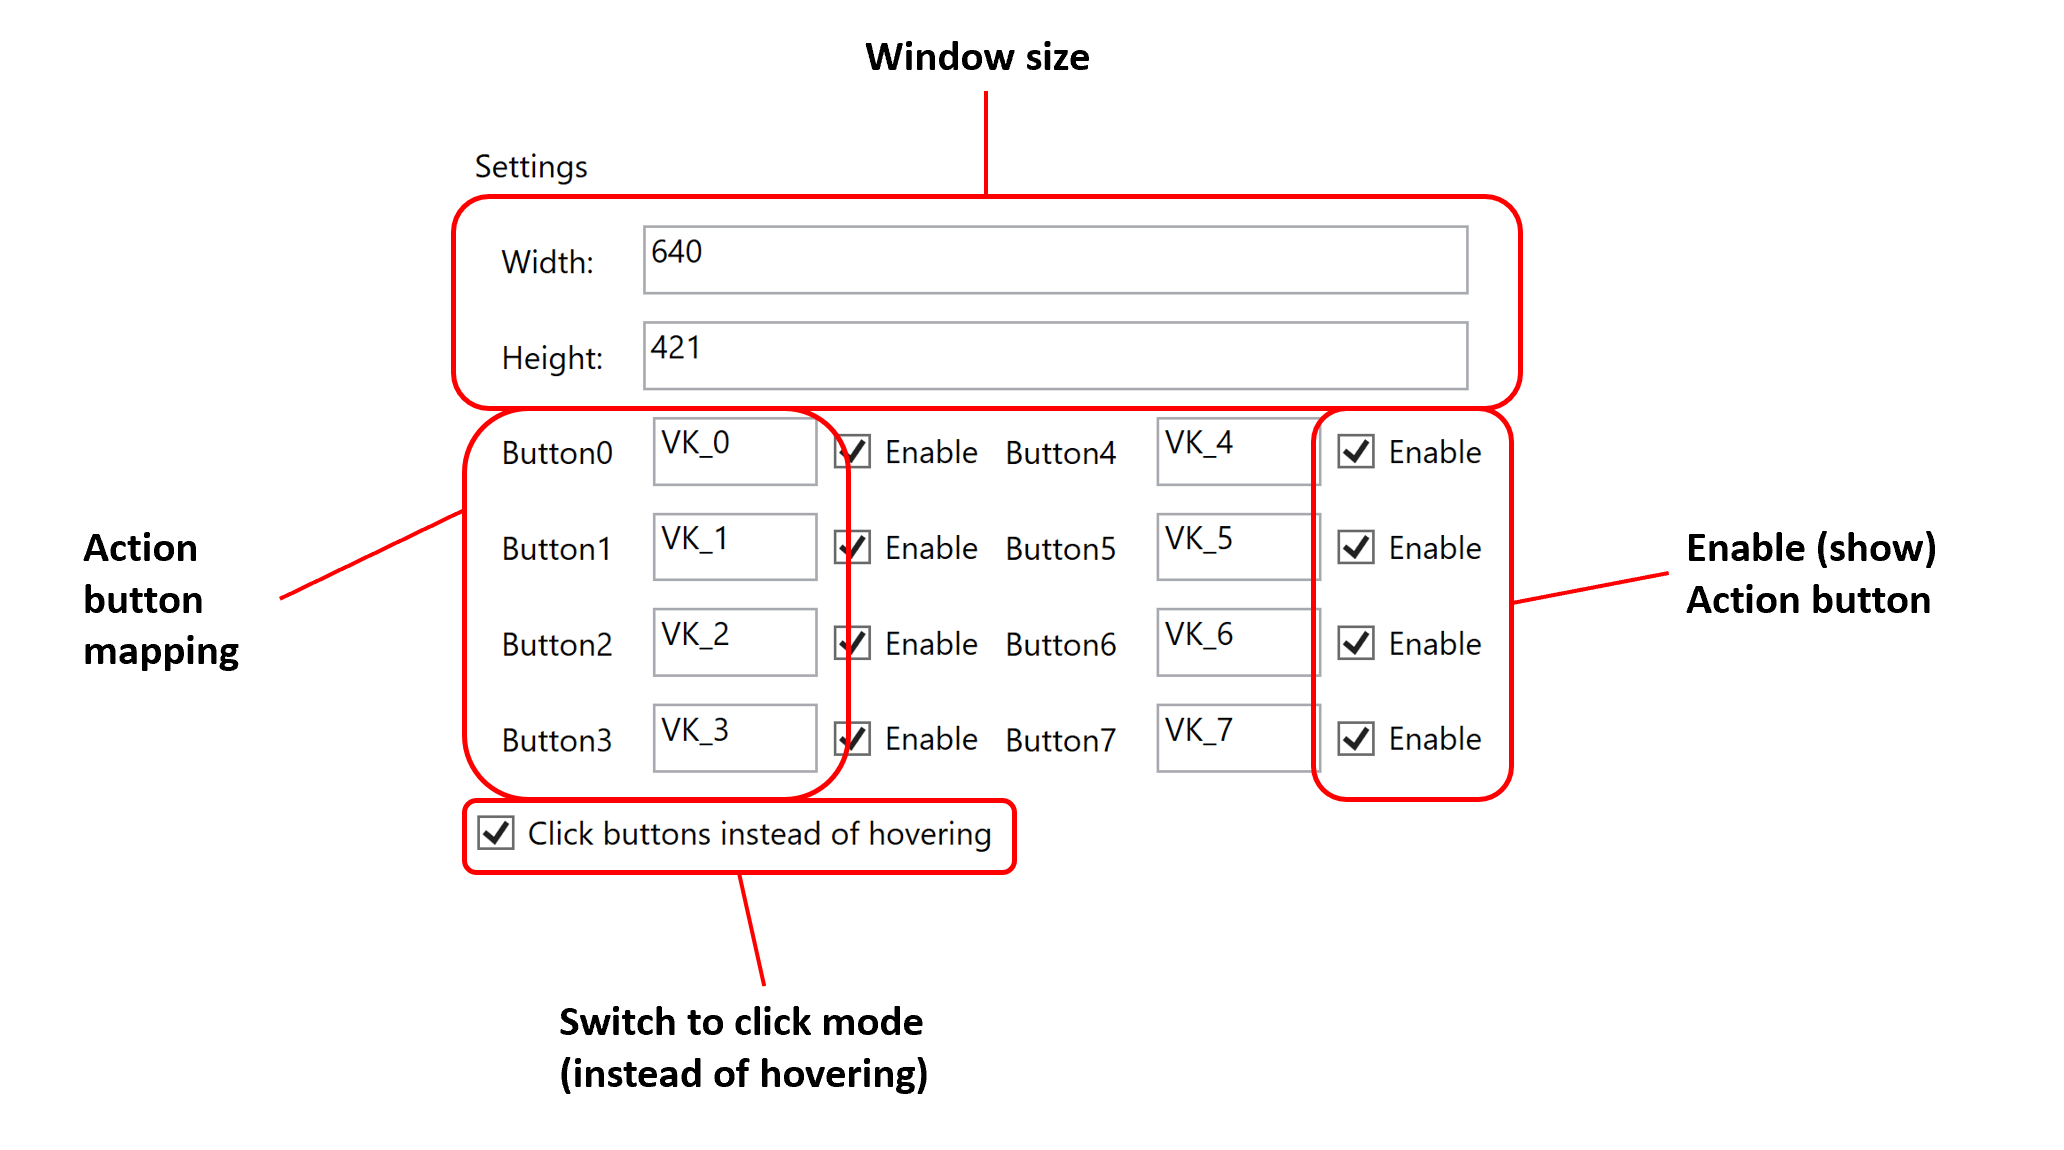
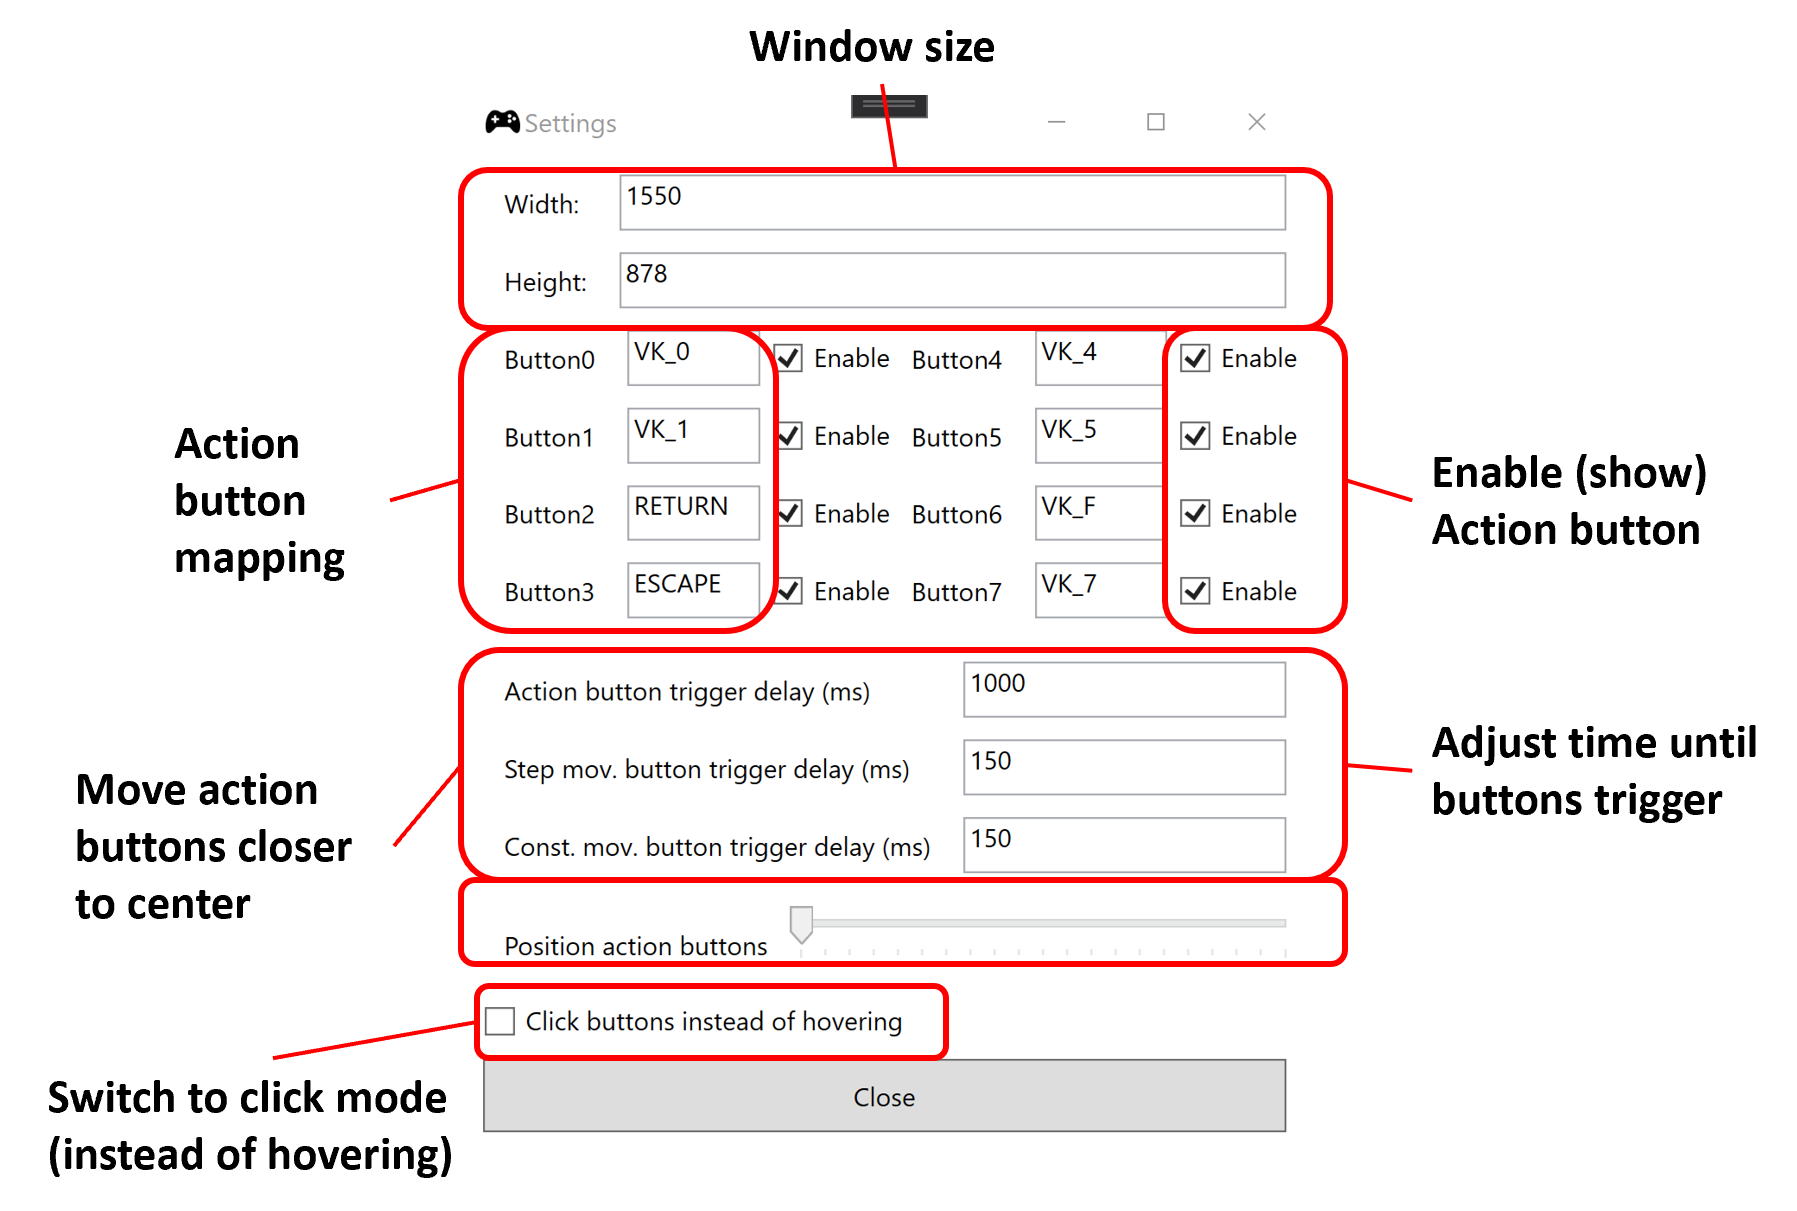
Updated readme for 2nd release

diff --git a/README.md b/README.md
@@ -32,6 +32,7 @@ Both the Action and Movement Buttons can be modified in terms of
 - text color
 - key mapping
 - trigger delay time
+- position (action button only)
 - visibility
 
 The size is currently not manually adjustable, but will adapt to the windows' size automatically.
@@ -68,6 +69,7 @@ In click mode, they just press & release the mapped key per click.
 - text color (via .config)
 - key mapping (via .config or GUI)
 - trigger delay time (via .config)
+- horizontal position (via GUI)
 - visibility (via .config or GUI)
 
 ### Window control buttons
